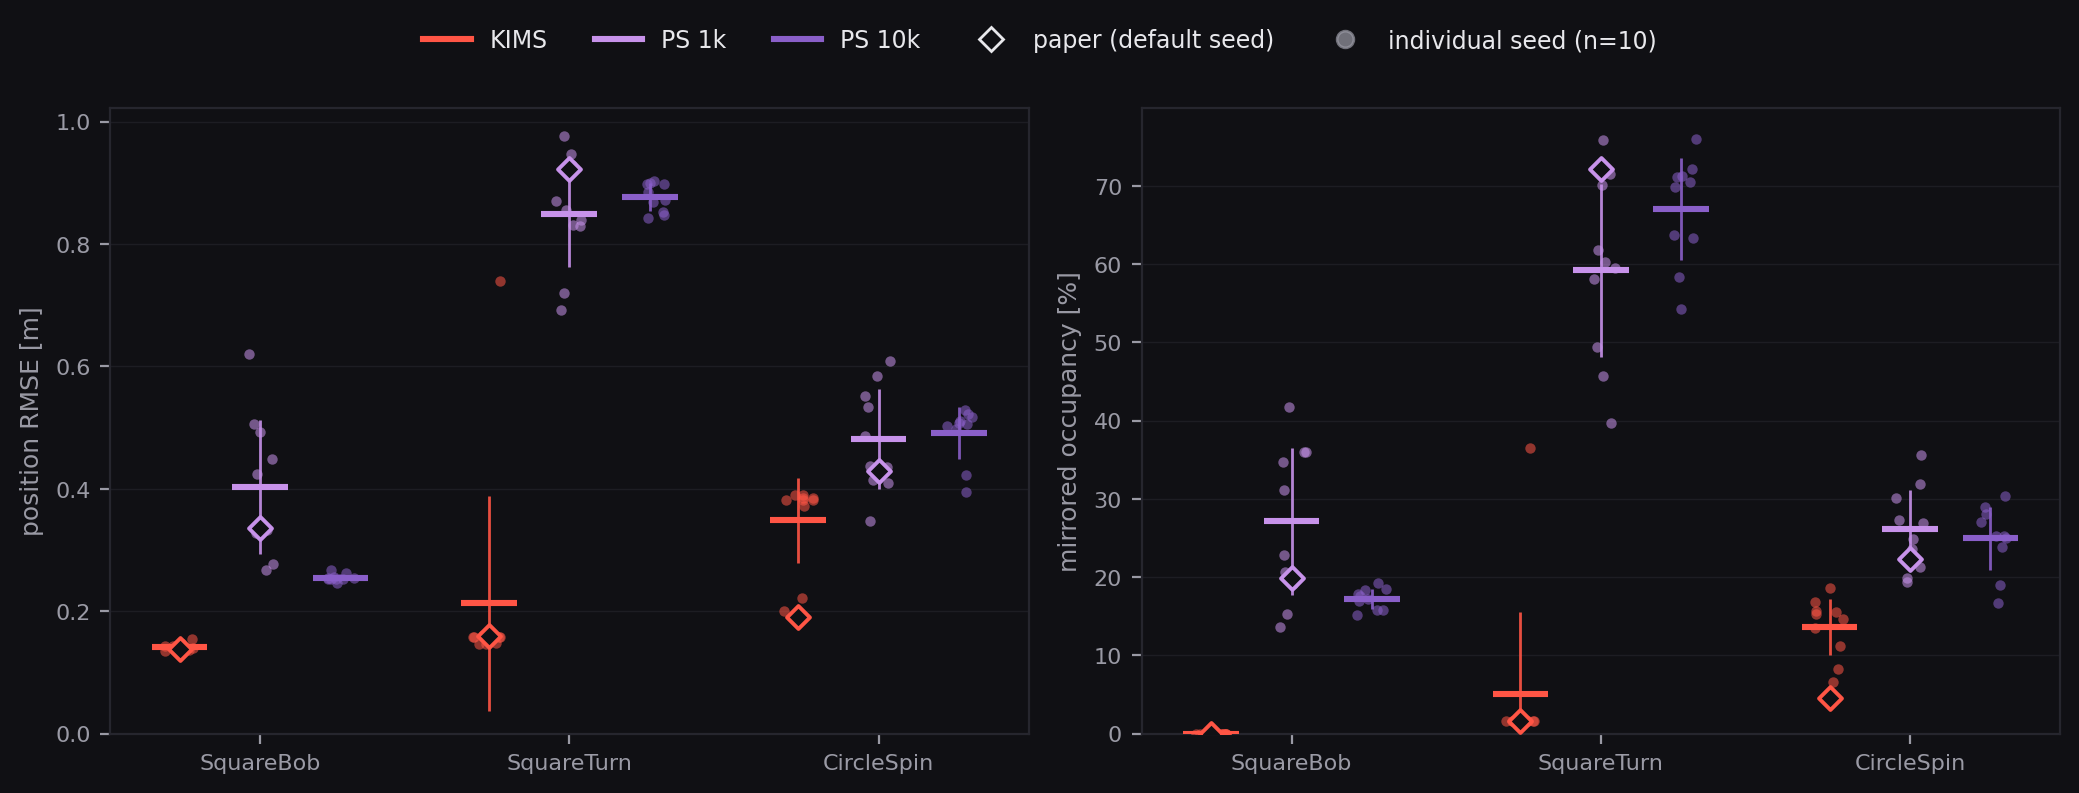
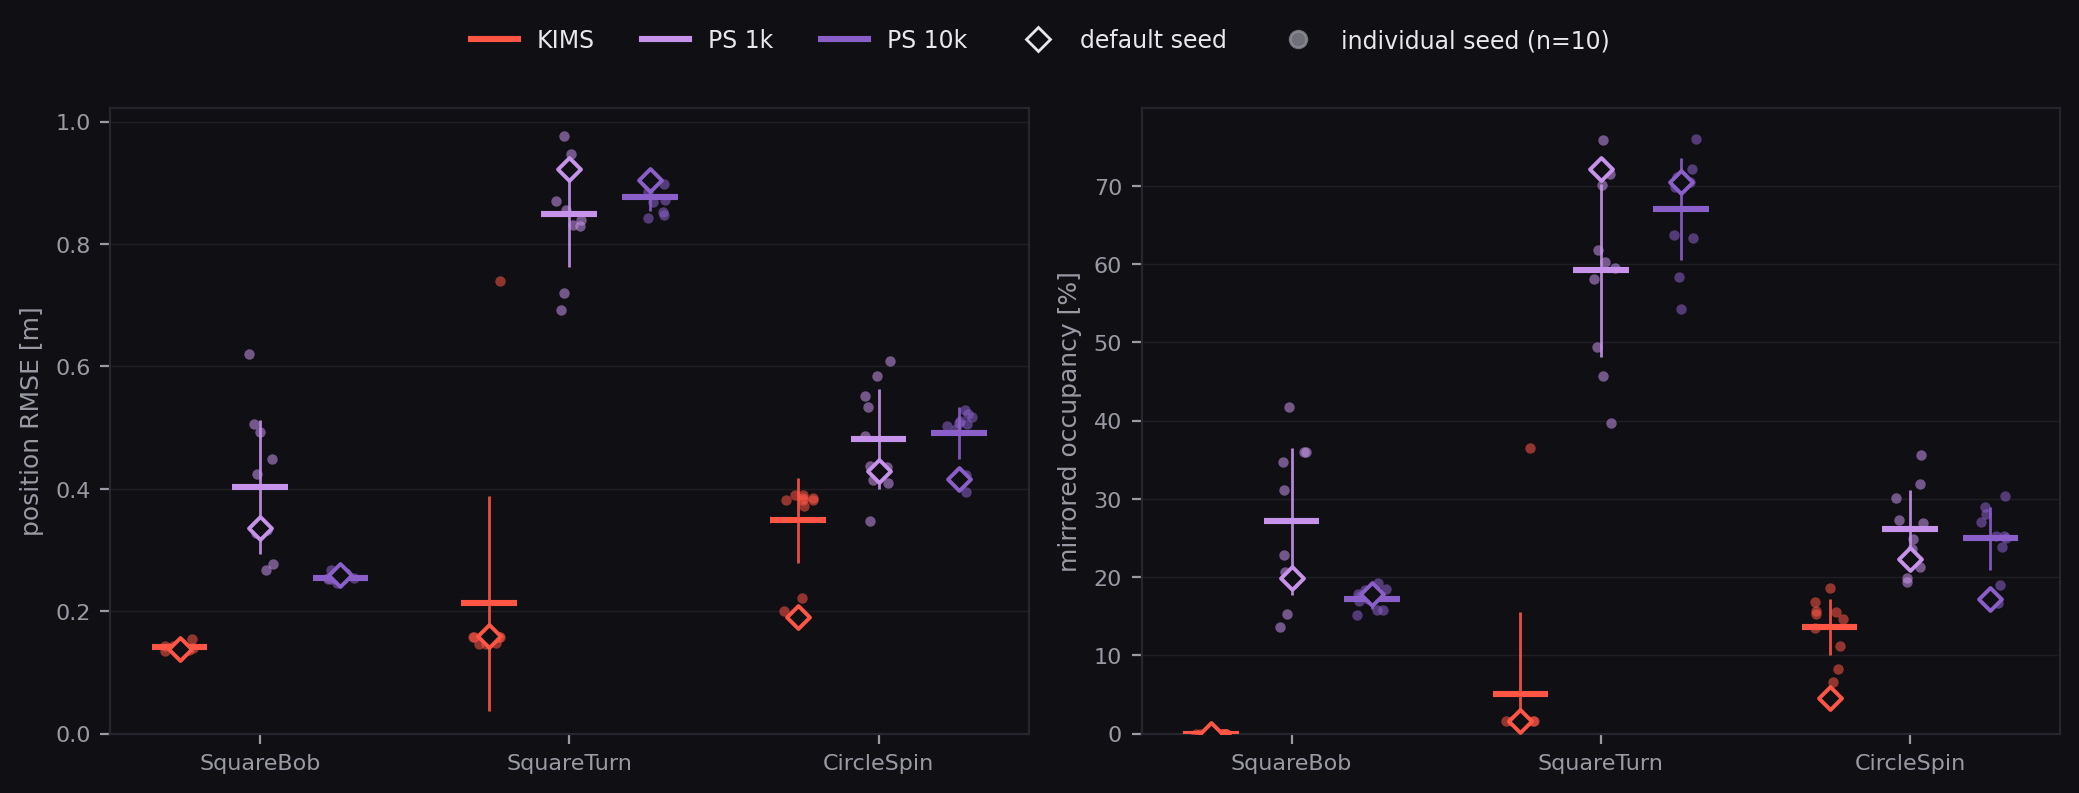
docs: seed figure includes the PS 10k default-seed run

diff --git a/docs/index.html b/docs/index.html
@@ -287,8 +287,8 @@ roslaunch kims kims_online.launch dataset:=ntu sequence:=eee_01</pre>
   <p>Random-seed protocol: both stochastic estimators were re-run over ten seeds on the three
      IULUI sequences (KIMS <code>seed:=1001…1010</code>, Particle Smoothing
      <code>seed:=101…110</code> at 1,000 and at the sample-matched 10,000 particles). Diamonds are
-     the default-seed runs shipped with the code, which are the values in Tables I and III of the
-     paper; dots are the individual seeds, bars the mean ± std. Occupancy uses the paper's
+     the default-seed runs (for KIMS and PS 1k these are the values in Tables I and III of the
+     paper), dots are the individual seeds, bars the mean ± std. Occupancy uses the paper's
      definition (gated to 0.25 m from the anchor plane).</p>
   <img src="assets/fig_seeds.png" alt="Seed-repetition statistics for KIMS and Particle Smoothing"
        style="width:100%;border-radius:12px;margin-top:6px">
